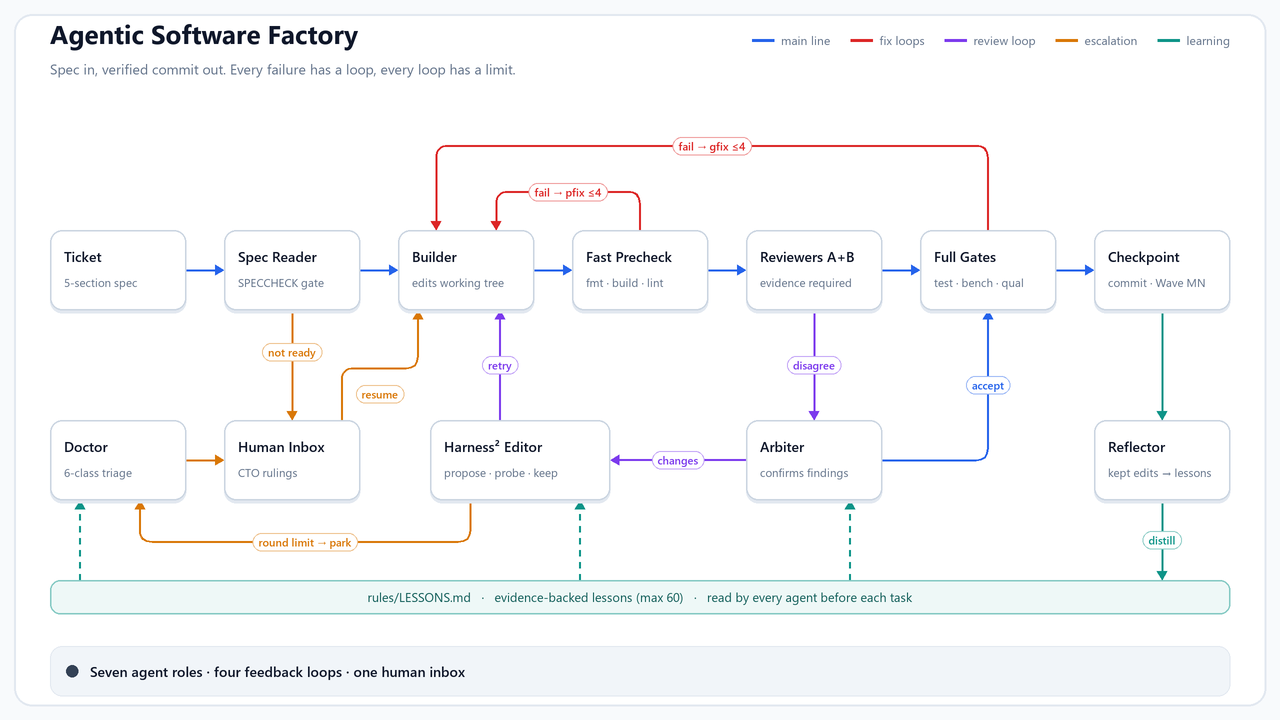
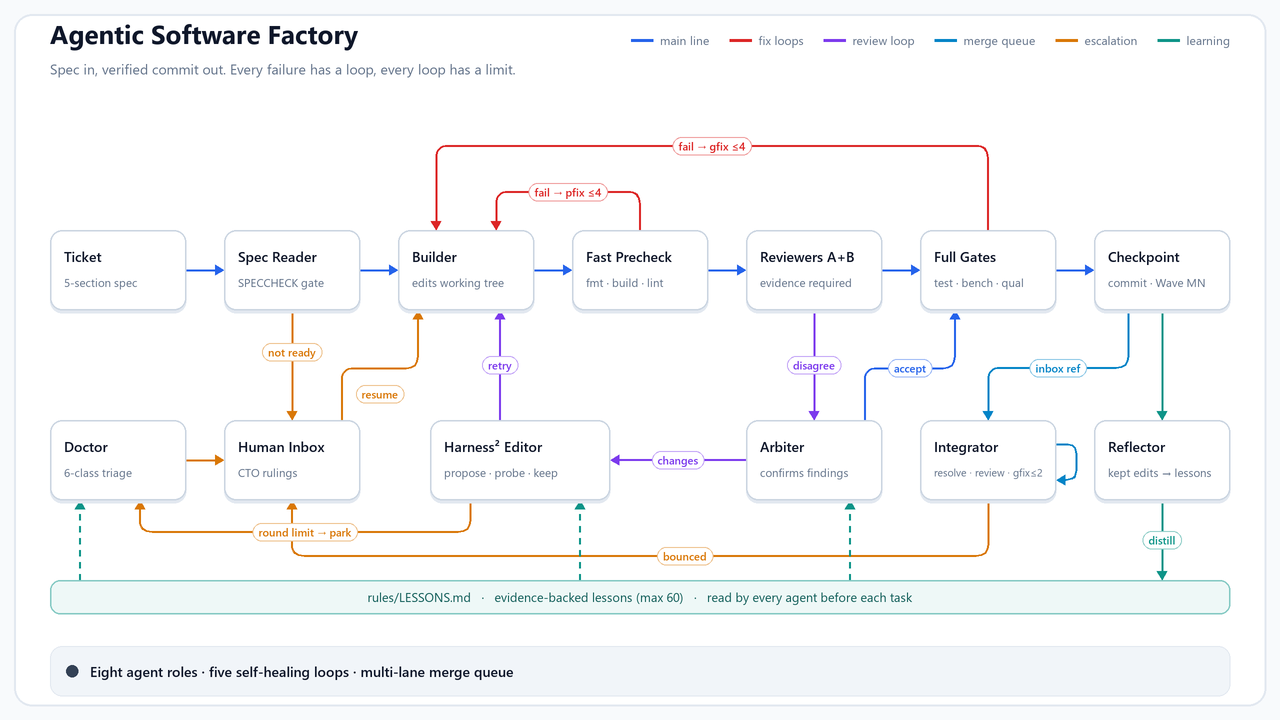
feat(integrator): add agent-driven merge queue role, harness, and diagrams

diff --git a/harness/integrator.py b/harness/integrator.py
@@ -2,21 +2,26 @@
 """
 Multi-Lane Integrator (Merge Queue)
 
-Optional companion for multi-lane setups:
-1. Scans refs/inbox/<lane>/<ticket_id> oldest-first.
+Optional companion for multi-lane setups (modeled on /work/integrator.sh):
+1. Scans refs/inbox/<lane>/<ticket_id> oldest-first (holding lanes with a bounced task).
 2. Cherry-picks each accepted task commit onto trunk.
-3. Runs precheck + full gates via FactoryOrchestrator.
-4. Advances trunk and marks refs/done/<ticket_id>, or marks refs/bounced/<ticket_id>
-   and escalates to .factory/inbox/escalations/.
+3. On merge conflicts: auto-resolves lockfiles, invokes Conflict Resolver (int-<id>-resolve),
+   checks for leftover conflict markers, and runs Conflict Reviewer (int-<id>-review).
+4. Runs precheck + full gates with up to 2 Integration Fixer (int-<id>-gfix) attempts.
+5. Commits onto trunk and marks refs/done/<ticket_id>, or marks refs/bounced/<ticket_id>
+   and escalates to .factory/inbox/escalations/INTEG-<ticket_id>.json.
 """
 
 import argparse
+import re
 import subprocess
-import sys
 from pathlib import Path
-from typing import List, Tuple
+from typing import List, Set, Tuple
 
 from factory import FactoryOrchestrator
+
+LOCKFILES = ("Cargo.lock", "package-lock.json", "yarn.lock", "pnpm-lock.yaml", "poetry.lock", "uv.lock")
+CONFLICT_MARKER_RE = re.compile(r"^(<<<<<<<|>>>>>>>)(?: |$)", re.MULTILINE)
 
 
 def run_git(repo: Path, args: List[str]) -> Tuple[int, str]:
@@ -29,14 +34,38 @@ def run_git(repo: Path, args: List[str]) -> Tuple[int, str]:
     return res.returncode, (res.stdout or "") + (res.stderr or "")
 
 
+def _held_lanes(repo: Path) -> Set[str]:
+    """Lanes with an active refs/bounced/<id> wait until the CTO deletes the mark."""
+    held: Set[str] = set()
+    code, bounced_out = run_git(repo, ["for-each-ref", "--format=%(refname)", "refs/bounced"])
+    if code != 0 or not bounced_out.strip():
+        return held
+
+    _, inbox_out = run_git(repo, ["for-each-ref", "--format=%(refname)", "refs/inbox"])
+    inbox_refs = [line.strip() for line in inbox_out.splitlines() if line.strip()]
+    for b_ref in [line.strip() for line in bounced_out.splitlines() if line.strip()]:
+        ticket_id = b_ref.rsplit("/", 1)[-1]
+        for i_ref in inbox_refs:
+            parts = i_ref.split("/")
+            if len(parts) >= 4 and parts[-1] == ticket_id:
+                held.add(parts[2])
+                break
+    return held
+
+
 def list_pending_inbox_refs(repo: Path) -> List[str]:
     code, out = run_git(repo, ["for-each-ref", "--sort=committerdate", "--format=%(refname)", "refs/inbox"])
     if code != 0:
         return []
 
+    held = _held_lanes(repo)
     pending = []
     for ref in [line.strip() for line in out.splitlines() if line.strip()]:
-        ticket_id = ref.rsplit("/", 1)[-1]
+        parts = ref.split("/")
+        lane = parts[2] if len(parts) >= 4 else "default"
+        if lane in held:
+            continue
+        ticket_id = parts[-1]
         done_code, _ = run_git(repo, ["rev-parse", "-q", "--verify", f"refs/done/{ticket_id}"])
         bounced_code, _ = run_git(repo, ["rev-parse", "-q", "--verify", f"refs/bounced/{ticket_id}"])
         if done_code != 0 and bounced_code != 0:
@@ -44,7 +73,32 @@ def list_pending_inbox_refs(repo: Path) -> List[str]:
     return pending
 
 
-def integrate_once(orchestrator: FactoryOrchestrator, dry_run: bool = False) -> int:
+def _has_conflict_markers(repo: Path, files: List[str]) -> bool:
+    for rel in files:
+        fpath = repo / rel
+        if fpath.is_file():
+            try:
+                if CONFLICT_MARKER_RE.search(fpath.read_text(encoding="utf-8", errors="ignore")):
+                    return True
+            except Exception:
+                pass
+    return False
+
+
+def bounce(orchestrator: FactoryOrchestrator, repo: Path, ticket_id: str, lane: str, ref: str, reason: str, details: dict):
+    run_git(repo, ["cherry-pick", "--quit"])
+    run_git(repo, ["reset", "--hard", "HEAD"])
+    run_git(repo, ["clean", "-fdq"])
+    run_git(repo, ["update-ref", f"refs/bounced/{ticket_id}", "HEAD"])
+    orchestrator.log_event(f"[INTEGRATOR] BOUNCED {ticket_id} (lane {lane}): {reason}")
+    orchestrator.create_escalation(
+        ticket_id=f"INTEG-{ticket_id}",
+        reason=reason,
+        details={"ref": ref, "lane": lane, **details},
+    )
+
+
+def integrate_once(orchestrator: FactoryOrchestrator, dry_run: bool = False, max_int_fixes: int = 2) -> int:
     repo = orchestrator.workspace
     pending = list_pending_inbox_refs(repo)
     if not pending:
@@ -56,6 +110,8 @@ def integrate_once(orchestrator: FactoryOrchestrator, dry_run: bool = False) -> 
         parts = ref.split("/")
         lane = parts[2] if len(parts) >= 4 else "default"
         ticket_id = parts[-1]
+        iid = f"int-{ticket_id}"
+        commit_sha = run_git(repo, ["rev-parse", ref])[1].strip()
         orchestrator.log_event(f"[INTEGRATOR] Integrating {ticket_id} from lane {lane} ({ref})")
 
         if dry_run:
@@ -63,34 +119,114 @@ def integrate_once(orchestrator: FactoryOrchestrator, dry_run: bool = False) -> 
             continue
 
         code, out = run_git(repo, ["cherry-pick", "--no-commit", ref])
+        conflicts: List[str] = []
         if code != 0:
+            _, unmerged = run_git(repo, ["diff", "--name-only", "--diff-filter=U"])
+            unmerged_files = [f.strip() for f in unmerged.splitlines() if f.strip()]
+            lockonly = False
+            for lf in LOCKFILES:
+                if lf in unmerged_files:
+                    run_git(repo, ["checkout", "--ours", "--", lf])
+                    lockonly = True
+            conflicts = [f for f in unmerged_files if f not in LOCKFILES]
             run_git(repo, ["cherry-pick", "--quit"])
-            run_git(repo, ["reset", "--hard", "HEAD"])
-            run_git(repo, ["update-ref", f"refs/bounced/{ticket_id}", "HEAD"])
-            orchestrator.create_escalation(
-                ticket_id=f"INTEG-{ticket_id}",
-                reason=f"Merge conflict integrating {ref} onto trunk",
-                details={"ref": ref, "lane": lane, "git_output": out[-800:]},
+            if not conflicts and not lockonly:
+                bounce(
+                    orchestrator, repo, ticket_id, lane, ref,
+                    "Task commit does not apply to trunk and shows no conflicted file",
+                    {"git_output": out[-800:]},
+                )
+                continue
+
+        run_git(repo, ["reset", "-q"])
+
+        # Step 1: Agent-assisted conflict resolution + conflict review
+        if conflicts:
+            orchestrator.log_event(f"[INTEGRATOR] Conflict in {conflicts}; invoking Conflict Resolver ({iid}-resolve)")
+            spec_stub = orchestrator.state_dir / f"{iid}.md"
+            spec_stub.write_text(
+                f"# Integration Conflict Resolution: {ticket_id}\n\n"
+                f"Task `{ticket_id}` (commit `{commit_sha}` from lane `{lane}`) was cherry-picked onto trunk.\n"
+                f"Conflicted files: {', '.join(conflicts)}.\n"
+                f"Resolve all conflict markers keeping both the task's changes (`git show {commit_sha}`) "
+                f"and trunk's changes (`HEAD`). Do not drop either side.\n",
+                encoding="utf-8",
             )
-            continue
+            _, resolver_model = orchestrator.dispatch_builder(spec_stub, 1, mode="int-resolve")
+            if _has_conflict_markers(repo, conflicts):
+                bounce(
+                    orchestrator, repo, ticket_id, lane, ref,
+                    "Conflict markers remained after int-resolve",
+                    {"conflicts": conflicts},
+                )
+                continue
 
-        pre_ok, pre_out = orchestrator.run_precheck(f"integ-{ticket_id}", 1)
-        gates_ok, gates_out = (False, "")
-        if pre_ok:
-            gates_ok, gates_out = orchestrator.run_gates(f"integ-{ticket_id}", 1)
+            verdict, _, review_out = orchestrator.dispatch_reviewer(
+                "INT", spec_stub, 1, author_model=resolver_model
+            )
+            if verdict != "accepted" or not orchestrator.ok_review(review_out):
+                bounce(
+                    orchestrator, repo, ticket_id, lane, ref,
+                    "Conflict resolution review did not accept",
+                    {"conflicts": conflicts, "review": review_out[-800:]},
+                )
+                continue
 
-        if pre_ok and gates_ok:
-            run_git(repo, ["commit", "-C", ref])
+        # Step 2: Precheck + Full Gates on merged trunk (up to 2 int-gfix attempts)
+        spec_stub = orchestrator.state_dir / f"{iid}.md"
+        if not spec_stub.exists():
+            spec_stub.write_text(
+                f"# Integration Verification: {ticket_id}\n\n"
+                f"Task `{ticket_id}` (commit `{commit_sha}` from lane `{lane}`) applied onto trunk.\n",
+                encoding="utf-8",
+            )
+
+        passed = False
+        last_log = ""
+        for attempt in range(max_int_fixes + 1):
+            pre_ok, pre_out = orchestrator.run_precheck(iid, attempt + 1)
+            gates_ok, gates_out = (False, "")
+            if pre_ok:
+                gates_ok, gates_out = orchestrator.run_gates(iid, attempt + 1)
+            if pre_ok and gates_ok:
+                passed = True
+                break
+            last_log = gates_out or pre_out
+            if attempt < max_int_fixes:
+                orchestrator.log_event(
+                    f"[INTEGRATOR] Checks failed on trunk for {ticket_id}; invoking {iid}-gfix{attempt + 1}"
+                )
+                orchestrator.dispatch_builder(
+                    spec_stub,
+                    attempt + 1,
+                    feedback=(
+                        f"Task {ticket_id} passed on lane {lane}, but failed after applying onto trunk.\n"
+                        f"Task commit: git show {commit_sha}\n"
+                        f"Failure log:\n{last_log[-800:]}"
+                    ),
+                    mode="int-gfix",
+                )
+
+        if passed:
+            run_git(repo, ["add", "-A"])
+            _, msg_out = run_git(repo, ["log", "-1", "--format=%s", commit_sha])
+            title = re.sub(r"^checkpoint\s+", "", msg_out.strip()) or ticket_id
+            commit_rc, _ = run_git(repo, ["commit", "-m", f"{title} (lane {lane})", "-m", f"Task commit {commit_sha}."])
+            if commit_rc != 0:
+                bounce(
+                    orchestrator, repo, ticket_id, lane, ref,
+                    "Task makes no change on trunk",
+                    {"commit": commit_sha},
+                )
+                continue
             run_git(repo, ["update-ref", f"refs/done/{ticket_id}", "HEAD"])
             orchestrator.log_event(f"[INTEGRATOR] Integrated {ticket_id} onto trunk.")
             processed += 1
         else:
-            run_git(repo, ["reset", "--hard", "HEAD"])
-            run_git(repo, ["update-ref", f"refs/bounced/{ticket_id}", "HEAD"])
-            orchestrator.create_escalation(
-                ticket_id=f"INTEG-{ticket_id}",
-                reason=f"Verification failed integrating {ref}",
-                details={"precheck_ok": pre_ok, "gates_ok": gates_ok, "log": (gates_out or pre_out)[-800:]},
+            bounce(
+                orchestrator, repo, ticket_id, lane, ref,
+                f"Checks failed on trunk after {max_int_fixes} integration fixes",
+                {"log": last_log[-800:]},
             )
     return processed
 

diff --git a/harness/factory.py b/harness/factory.py
@@ -468,7 +468,8 @@ class FactoryOrchestrator:
             log_file.write_text(text, encoding="utf-8")
             return "accepted", [f"{ticket_id}.ext:42: minor comment typo"], text
 
-        reviewer_cmd = self.config.get("agents", {}).get(f"reviewer_{role.lower()}_cmd")
+        agents_cfg = self.config.get("agents", {})
+        reviewer_cmd = agents_cfg.get(f"reviewer_{role.lower()}_cmd") or agents_cfg.get("reviewer_a_cmd")
         model = self.broker_pick(exclude=[author_model] if author_model else None)
         cmd_args = f"--role {role} --ticket {ticket_file}"
         if round_num > 1 and prev_tree:

diff --git a/install.py b/install.py
@@ -22,6 +22,7 @@ FILES_TO_FETCH = [
     ("roles/HARNESS_EDITOR.md", "roles/HARNESS_EDITOR.md"),
     ("roles/REFLECTOR.md", "roles/REFLECTOR.md"),
     ("roles/DOCTOR.md", "roles/DOCTOR.md"),
+    ("roles/INTEGRATOR.md", "roles/INTEGRATOR.md"),
     ("rules/RULEBOOK.md", "rules/RULEBOOK.md"),
     ("rules/LESSONS.md", "rules/LESSONS.md"),
     ("specs/SPEC_STANDARD.md", "specs/SPEC_STANDARD.md"),

diff --git a/roles/INTEGRATOR.md b/roles/INTEGRATOR.md
@@ -1,0 +1,31 @@
+# Role: The Integrator (Multi-Lane Merge Queue)
+
+You are **The Integrator** subsystem in the Agentic Software Factory (`harness/integrator.py`). You take each task commit accepted by a lane (`refs/inbox/<lane>/<id>`), oldest first, apply it onto `trunk`, invoke specialized integration agents if conflicts or cross-lane breakages occur, run `precheck` and `gates`, and fast-forward `trunk` only when everything passes.
+
+---
+
+## 1. Three Integration Agent Sub-Roles
+
+When a task commit meets a newer `trunk`, the Integrator dispatches up to three focused agents:
+
+1. **Conflict Resolver (`int-<id>-resolve`)**
+   - **Trigger:** `git cherry-pick --no-commit <ref>` produces merge conflict markers in non-lockfile files.
+   - **Mission:** Resolve every conflict marker in the working tree so the result keeps **both** what the task commit implemented (`git show <commit>`) and what `trunk` already contains (`HEAD`). Never drop either side.
+   - **Limits:** Do not run `git` mutations, do not edit unrelated files, and do not weaken checks.
+2. **Conflict Reviewer (`int-<id>-review`)**
+   - **Trigger:** Immediately after the Conflict Resolver removes all conflict markers (`<<<<<<<` / `>>>>>>>`).
+   - **Mission:** Audit `git diff` for the conflicted files against `git show <commit>` and `git show HEAD:<file>`. Reject if any part of the task or `trunk` was dropped or changed, or if extraneous edits were added.
+   - **Contract:** Must include `FILES READ`, `REACHABILITY`, `SLOP`, and `VERDICT: accepted | changes` (`FactoryOrchestrator.ok_review`).
+3. **Integration Fixer (`int-<id>-gfix1..2`)**
+   - **Trigger:** `precheck` or full `gates` fail after applying an accepted lane commit onto `trunk` (cross-lane semantic conflict).
+   - **Mission:** Fix only what makes the failing check fail, preserving both the lane task's work and `trunk`'s work. Up to **2 attempts** (`max_int_fixes = 2`).
+   - **Limits:** Never weaken checks (`#[ignore]`, disabled lints, removed tests, or lowered thresholds).
+
+---
+
+## 2. Bounce & Lane-Hold Rules
+
+- If conflict markers remain after `int-<id>-resolve`, if `int-<id>-review` rejects, or if `precheck` + `gates` still fail after 2 `int-gfix` attempts:
+  - Reset the integration tree to clean `HEAD`.
+  - Record `refs/bounced/<id>` and deposit an escalation in `.factory/inbox/escalations/INTEG-<id>.json`.
+- While `refs/bounced/<id>` exists, later tasks from that same lane wait in the queue until a human/CTO clears the bounce.

diff --git a/.agents/skills/agentic-factory/SKILL.md b/.agents/skills/agentic-factory/SKILL.md
@@ -47,9 +47,10 @@ Fetch or generate the template files:
 5. `roles/ARBITER.md`: Evidence-based judge for reviewer disagreements and missing evidence sections.
 6. `roles/HARNESS_EDITOR.md` & `roles/REFLECTOR.md`: Recursive Harnessing (Harness²) task edits and distilled lessons.
 7. `roles/DOCTOR.md`: Forensic triage protocol and root-cause classification (`TASK`, `PRODUCT`, `TEST`, `SPEC`, `PROCESS`, `UNKNOWN`).
-8. `rules/RULEBOOK.md` & `rules/LESSONS.md`: Engineering constitution and distilled lessons.
-9. `specs/SPEC_STANDARD.md`, `specs/TICKET_TEMPLATE.md`, `specs/WAVE_EXAMPLE.md`: Spec standard and templates.
-10. `harness/HARNESS.md`, `harness/factory.py`, `harness/model_broker.py`, `harness/integrator.py`: Orchestrator, optional model broker, and multi-lane integrator.
+8. `roles/INTEGRATOR.md`: Multi-lane Merge Queue sub-roles (Conflict Resolver, Conflict Reviewer, Integration Fixer).
+9. `rules/RULEBOOK.md` & `rules/LESSONS.md`: Engineering constitution and distilled lessons.
+10. `specs/SPEC_STANDARD.md`, `specs/TICKET_TEMPLATE.md`, `specs/WAVE_EXAMPLE.md`: Spec standard and templates.
+11. `harness/HARNESS.md`, `harness/factory.py`, `harness/model_broker.py`, `harness/integrator.py`: Orchestrator, optional model broker, and multi-lane integrator.
 
 Alternatively, execute the automated fetcher:
 ```bash

diff --git a/skills/agentic-factory/SKILL.md b/skills/agentic-factory/SKILL.md
@@ -47,9 +47,10 @@ Fetch or generate the template files:
 5. `roles/ARBITER.md`: Evidence-based judge for reviewer disagreements and missing evidence sections.
 6. `roles/HARNESS_EDITOR.md` & `roles/REFLECTOR.md`: Recursive Harnessing (Harness²) task edits and distilled lessons.
 7. `roles/DOCTOR.md`: Forensic triage protocol and root-cause classification (`TASK`, `PRODUCT`, `TEST`, `SPEC`, `PROCESS`, `UNKNOWN`).
-8. `rules/RULEBOOK.md` & `rules/LESSONS.md`: Engineering constitution and distilled lessons.
-9. `specs/SPEC_STANDARD.md`, `specs/TICKET_TEMPLATE.md`, `specs/WAVE_EXAMPLE.md`: Spec standard and templates.
-10. `harness/HARNESS.md`, `harness/factory.py`, `harness/model_broker.py`, `harness/integrator.py`: Orchestrator, optional model broker, and multi-lane integrator.
+8. `roles/INTEGRATOR.md`: Multi-lane Merge Queue sub-roles (Conflict Resolver, Conflict Reviewer, Integration Fixer).
+9. `rules/RULEBOOK.md` & `rules/LESSONS.md`: Engineering constitution and distilled lessons.
+10. `specs/SPEC_STANDARD.md`, `specs/TICKET_TEMPLATE.md`, `specs/WAVE_EXAMPLE.md`: Spec standard and templates.
+11. `harness/HARNESS.md`, `harness/factory.py`, `harness/model_broker.py`, `harness/integrator.py`: Orchestrator, optional model broker, and multi-lane integrator.
 
 Alternatively, execute the automated fetcher:
 ```bash

diff --git a/README.md b/README.md
@@ -36,8 +36,13 @@ flowchart TD
     Arbiter -->|ARBITER: accept| Gates
     Gates -->|Fail: gfix| Builder
     Gates -->|Pass| Git[8. Checkpoint & Reflector]
-    Git --> Triage[9. Doctor Triage] --> WaveMN[Wave MN: Minor Cleanup]
-    Builder -.->|Round Limit Exhausted| Park[Park refs/stopped] --> Doctor[10. The Doctor]
+    Git -->|refs/inbox| Integrator[9. Integrator Merge Queue]
+    Integrator -->|Conflict: Resolver + Reviewer| Integrator
+    Integrator -->|Precheck + Gates Fail: int-gfix <= 2| Integrator
+    Integrator -.->|Pass: trunk + lane_sync| SpecCheck
+    Integrator -->|Bounced: refs/bounced| Inbox
+    Git --> Triage[10. Doctor Triage] --> WaveMN[Wave MN: Minor Cleanup]
+    Builder -.->|Round Limit Exhausted| Park[Park refs/stopped] --> Doctor[11. The Doctor]
     Doctor -->|Escalate| Inbox
     Inbox -.->|Resume Ruling| Builder
 ```
